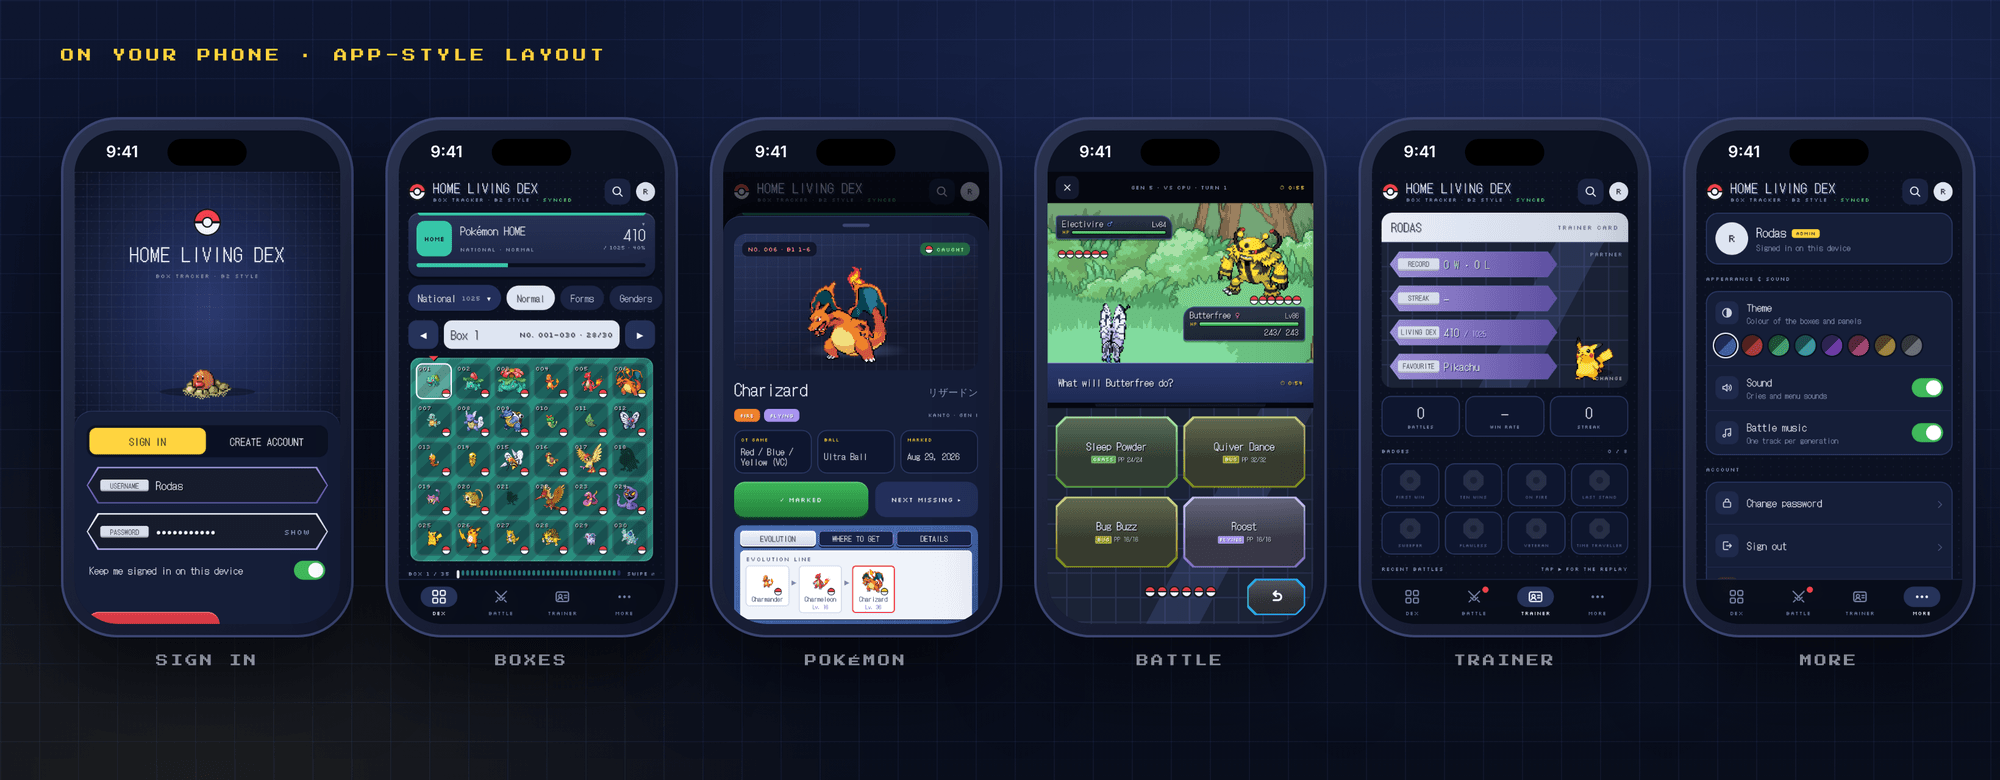
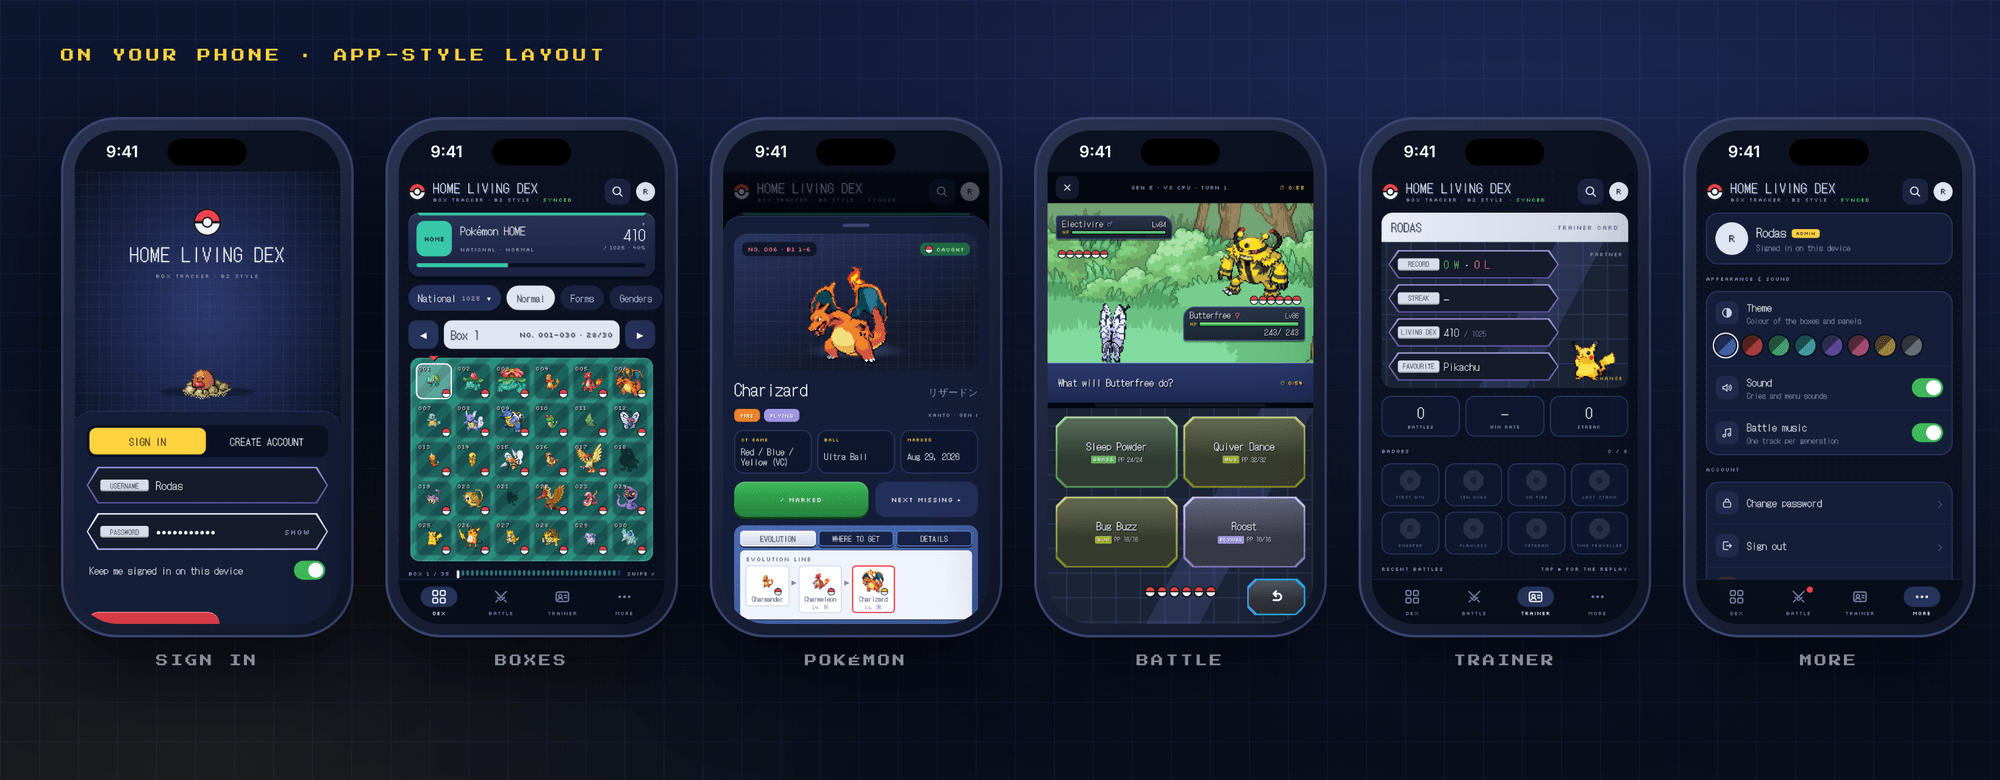
Phone: dark trainer-card plates like the desktop; docs: UGREEN NAS
- Drop the light plate override on phones, so the lobby and the Trainer
  tab show the same dark plates with a purple edge as the desktop
- Trainer tab gets the plate colours outside the Showdown view
- README, compose and hero image: the server is a UGREEN NAS

Claude-Session: https://claude.ai/code/session_01Gapv754ok2c2QCECJYdgjL

Changed region(s): [[0.682, 0.3077, 0.806, 0.4923]]

diff --git a/src/LivingDex/wwwroot/index.html b/src/LivingDex/wwwroot/index.html
@@ -1292,6 +1292,7 @@ button.b2-fbadge:active{transform:translateY(.12em)}
   .mob-view{display:grid;grid-template-columns:minmax(0,1fr);gap:12px;align-content:start}
   .mob-empty{margin:0;padding:24px 8px;text-align:center;color:var(--muted);font-size:.85rem}
   .mob-lbl{display:flex;justify-content:space-between;font-family:var(--tiny);font-size:.5rem;letter-spacing:.14em;color:var(--muted);margin-top:4px}
+  .mob-cardslot{--edge1:#a99be0;--edge2:#5d4fa0;--plate:hsl(calc(var(--h) + 4) calc(32% * var(--sat)) 13%);--gold:#ffd23f}
   .mob-cardslot .s-tcard{border-radius:16px}
   .mob-cardslot .s-bcase,.mob-cardslot .s-tfoot{display:none}
   .mob-cardslot .s-tbody{min-height:0}
@@ -1336,12 +1337,6 @@ button.b2-fbadge:active{transform:translateY(.12em)}
   .mob-adm{font-family:var(--tiny);font-size:.44rem;letter-spacing:.1em;background:#ffd23f;color:#2b2200;padding:2px 6px;border-radius:4px;margin-left:8px;vertical-align:middle}
   .mob-backup details.backup{border-radius:18px}
   .mob-foot{margin:4px 0 0;text-align:center;font-family:var(--tiny);font-size:.46rem;letter-spacing:.12em;color:hsl(calc(var(--h) + 5) calc(23% * var(--sat)) 44%)}
-
-  /* ---------- trainer cards: light plates like the mock ---------- */
-  .s-hex>.s-in{background:linear-gradient(90deg,#9d8fd8,#5d4fa0)}
-  .s-hex .s-vv{text-shadow:1px 1px 0 #2a2060}
-  .s-hex .s-vv small{color:#e3defa}
-  .s-hex .s-w{color:#c4ffcf} .s-hex .s-l{color:#ffd0d6}
 
   /* ---------- SHOWDOWN lobby ---------- */
   .sdmode #sdView{padding-block:0;align-content:start}

diff --git a/client/src/mob.css b/client/src/mob.css
@@ -177,6 +177,7 @@
   .mob-view{display:grid;grid-template-columns:minmax(0,1fr);gap:12px;align-content:start}
   .mob-empty{margin:0;padding:24px 8px;text-align:center;color:var(--muted);font-size:.85rem}
   .mob-lbl{display:flex;justify-content:space-between;font-family:var(--tiny);font-size:.5rem;letter-spacing:.14em;color:var(--muted);margin-top:4px}
+  .mob-cardslot{--edge1:#a99be0;--edge2:#5d4fa0;--plate:#161b2b;--gold:#ffd23f}
   .mob-cardslot .s-tcard{border-radius:16px}
   .mob-cardslot .s-bcase,.mob-cardslot .s-tfoot{display:none}
   .mob-cardslot .s-tbody{min-height:0}
@@ -221,12 +222,6 @@
   .mob-adm{font-family:var(--tiny);font-size:.44rem;letter-spacing:.1em;background:#ffd23f;color:#2b2200;padding:2px 6px;border-radius:4px;margin-left:8px;vertical-align:middle}
   .mob-backup details.backup{border-radius:18px}
   .mob-foot{margin:4px 0 0;text-align:center;font-family:var(--tiny);font-size:.46rem;letter-spacing:.12em;color:#56618a}
-
-  /* ---------- trainer cards: light plates like the mock ---------- */
-  .s-hex>.s-in{background:linear-gradient(90deg,#9d8fd8,#5d4fa0)}
-  .s-hex .s-vv{text-shadow:1px 1px 0 #2a2060}
-  .s-hex .s-vv small{color:#e3defa}
-  .s-hex .s-w{color:#c4ffcf} .s-hex .s-l{color:#ffd0d6}
 
   /* ---------- SHOWDOWN lobby ---------- */
   .sdmode #sdView{padding-block:0;align-content:start}

diff --git a/src/LivingDex/LivingDexOptions.cs b/src/LivingDex/LivingDexOptions.cs
@@ -10,7 +10,7 @@ public sealed class LivingDexOptions
     /// <summary>Whether people can create their own account. The very first account can always be created, and becomes the admin.</summary>
     public bool AllowRegistration { get; set; } = true;
 
-    /// <summary>Trust X-Forwarded-For / X-Forwarded-Proto from a reverse proxy (Synology, nginx, Traefik…).</summary>
+    /// <summary>Trust X-Forwarded-For / X-Forwarded-Proto from a reverse proxy (nginx, Traefik…).</summary>
     public bool BehindProxy { get; set; }
 
     /// <summary>Sign-in, sign-up and password attempts allowed per minute from one address.</summary>

diff --git a/README.md b/README.md
@@ -14,7 +14,7 @@
   <img alt="SQLite" src="https://img.shields.io/badge/SQLite-Dapper-003B57?logo=sqlite&logoColor=white">
   <img alt="SignalR" src="https://img.shields.io/badge/SignalR-live%20battles-5C2D91">
   <img alt="Pokémon Showdown" src="https://img.shields.io/badge/Pok%C3%A9mon%20Showdown-0.11-e3363a">
-  <img alt="Docker" src="https://img.shields.io/badge/Docker-Synology%20ready-2496ED?logo=docker&logoColor=white">
+  <img alt="Docker" src="https://img.shields.io/badge/Docker-UGREEN%20NAS-2496ED?logo=docker&logoColor=white">
 </p>
 
 <p align="center">
@@ -48,7 +48,7 @@
 
 **Built to self-host**
 
-- One container (ASP.NET Core + Node.js for the simulator), one volume, made for a Synology NAS.
+- One container (ASP.NET Core + Node.js for the simulator), one volume, made for a UGREEN NAS.
 - Sprites, cries, backgrounds and music are cached on first use; the admin can **download all assets** in one go.
 - **Phone layout** – an app-style design under 700 px (tab bar, swipeable boxes, sheets, full-screen battles); the desktop design is untouched.
 
@@ -87,14 +87,14 @@ Settings go in a `.env` file next to `docker-compose.yml`:
 
 ```
 LIVINGDEX_ALLOW_REGISTRATION=false   # after everyone has an account
-LIVINGDEX_BEHIND_PROXY=true          # if Synology's reverse proxy / nginx / Traefik is in front
+LIVINGDEX_BEHIND_PROXY=true          # if a reverse proxy (nginx, Traefik…) is in front
 LIVINGDEX_TURN_SECONDS=60            # time per battle turn
 LIVINGDEX_SHOWDOWN=true              # false turns the battle room off
 ```
 
 With sign-up closed, the admin can still help people from **Manage users** (reset a forgotten password, delete an account).
 
-**Synology:** in *Container Manager → Project*, create a project from this folder (it picks up `docker-compose.yml`). If you put it behind *Login Portal → Advanced → Reverse Proxy*, open the rule's *Custom Header* tab and choose *Create → WebSocket* so battles use WebSockets (they fall back to long polling otherwise), and set `LIVINGDEX_BEHIND_PROXY=true`. In Nginx Proxy Manager, tick **Websockets Support**.
+**UGREEN NAS:** in the *Docker* app, create a *Project* from this folder (it picks up `docker-compose.yml`). If a reverse proxy sits in front (Nginx Proxy Manager, Traefik…), turn on WebSocket support for it so battles use WebSockets (they fall back to long polling otherwise), and set `LIVINGDEX_BEHIND_PROXY=true`. In Nginx Proxy Manager, that is **Websockets Support** on the proxy host.
 
 If you bind-mount a host folder instead of the named volume, make it writable by UID 1654 (the `app` user of the .NET images):
 
@@ -276,7 +276,7 @@ Every request that changes something must send the header `X-LivingDex: 1` (CSRF
 - The login cookie is HttpOnly and SameSite=Lax; it lasts 60 days when "Keep me signed in" is ticked, and is renewed while you use the app.
 - Changing or resetting a password signs that account out on every other device.
 - Sign-in attempts are rate-limited per address, and a wrong username answers exactly like a wrong password.
-- If the app is reachable from the internet, put it behind HTTPS (Synology reverse proxy with a certificate) and set `LIVINGDEX_BEHIND_PROXY=true`.
+- If the app is reachable from the internet, put it behind HTTPS (a reverse proxy with a certificate) and set `LIVINGDEX_BEHIND_PROXY=true`.
 
 ### How sync behaves
 
